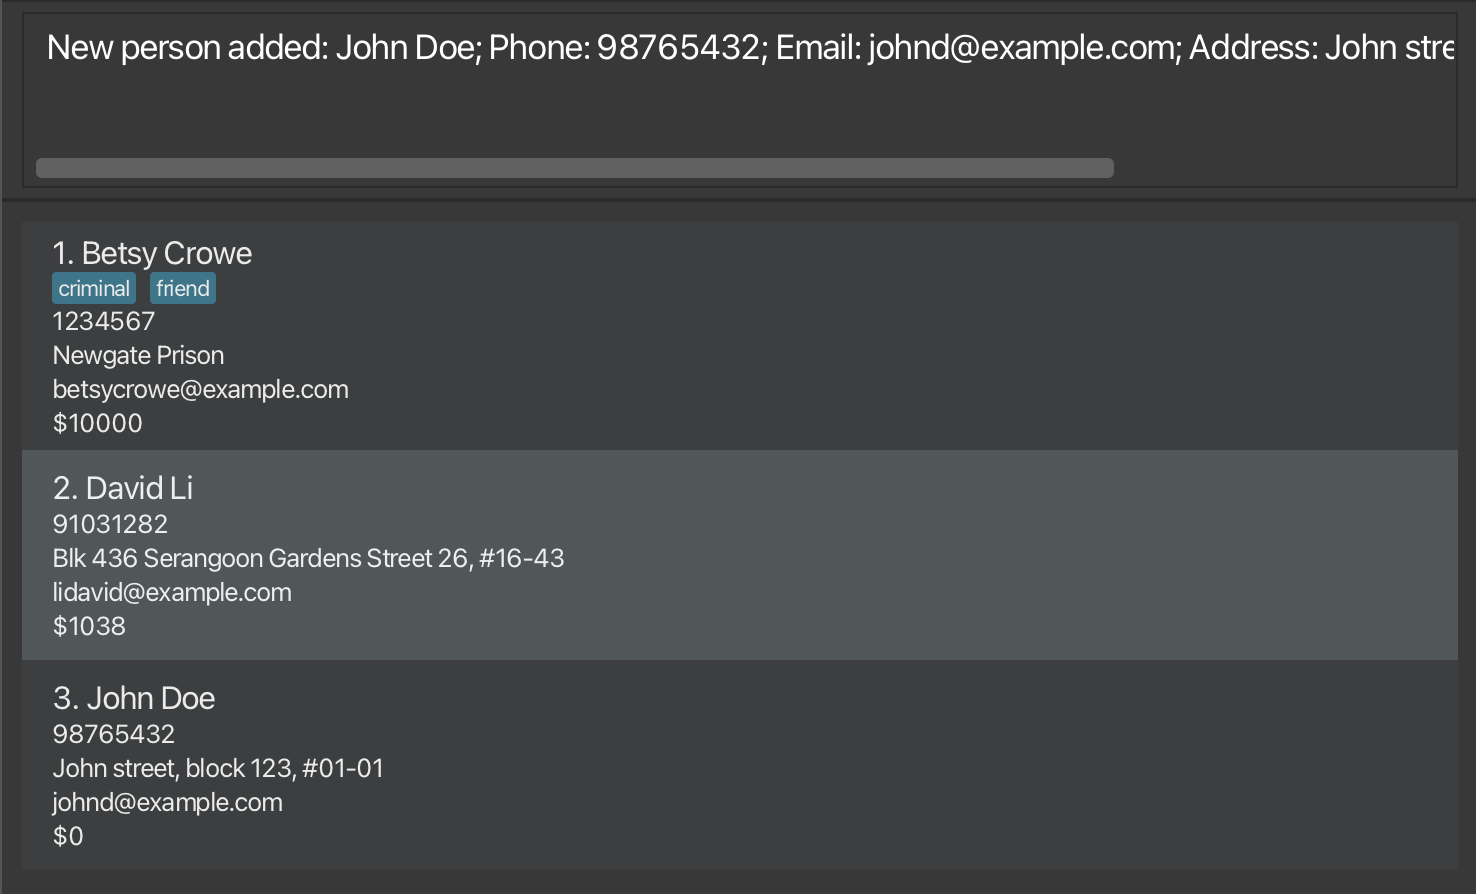
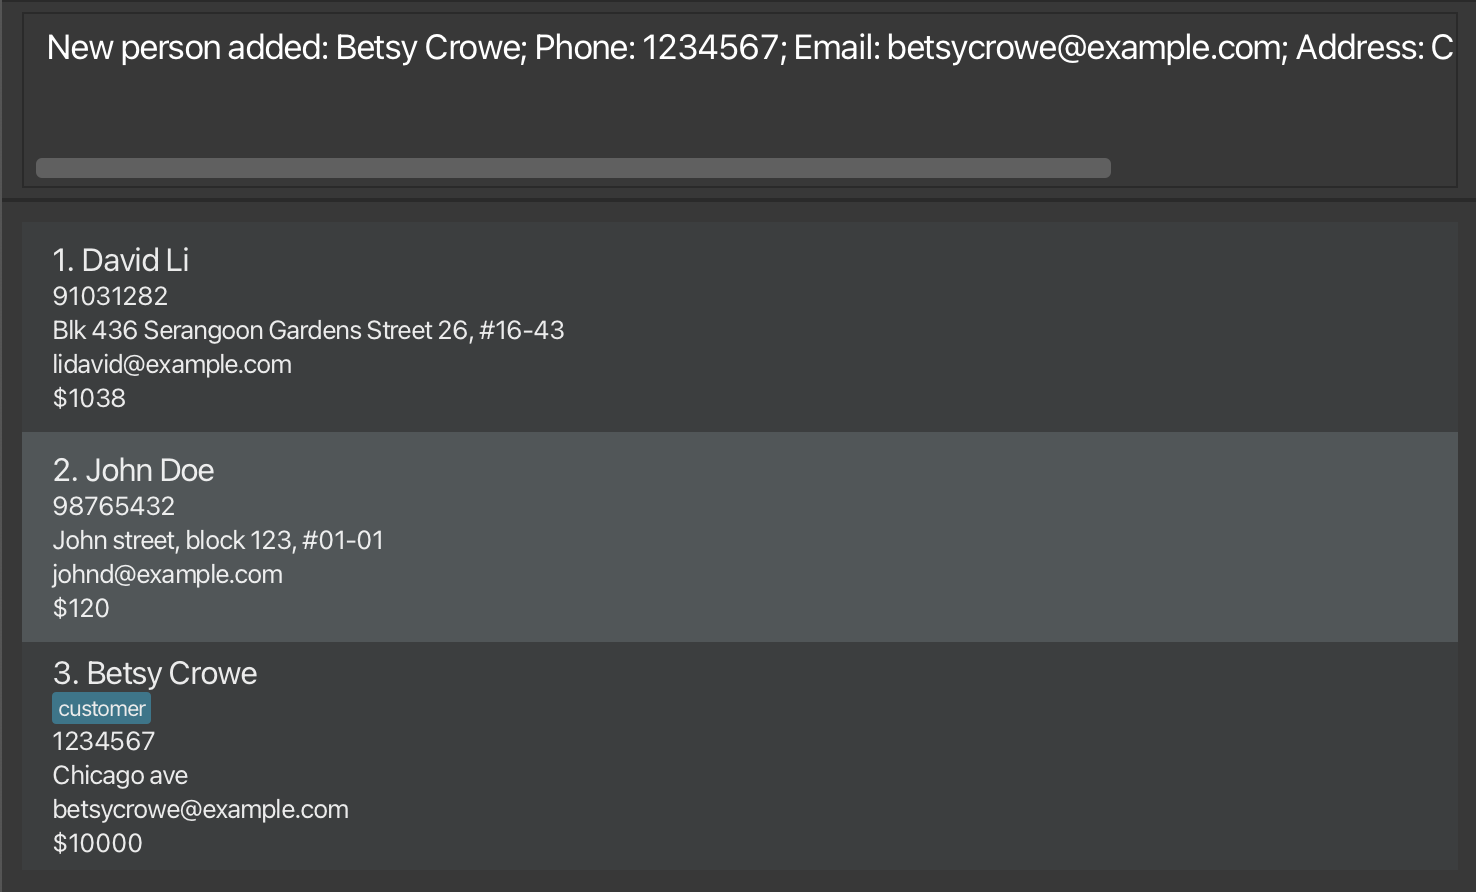
Change to relative tag

Changed region(s): [[0.0, 0.2724, 0.9973, 0.9686], [0.2182, 0.0303, 0.9973, 0.0908]]

diff --git a/docs/UserGuide.md b/docs/UserGuide.md
@@ -125,8 +125,8 @@ A contact can have any number of tags (including 0)
 
 Examples:
 * `add n/John Doe p/98765432 e/johnd@example.com a/John street, block 123, #01-01 c/0`
-* `add n/Betsy Crowe t/friend c/10000 e/betsycrowe@example.com a/Newgate Prison p/1234567 t/criminal`
-  ![result for 'add n/Betsy Crowe t/friend c/10000 e/betsycrowe@example.com a/Newgate Prison p/1234567 t/criminal'](images/addBetsyCroweResult.png)
+* `add n/Betsy Crowe c/10000 e/betsycrowe@example.com a/Chicago ave p/1234567 t/customer`
+  ![result for 'add n/Betsy Crowe c/10000 e/betsycrowe@example.com a/Chicago ave p/1234567 t/customer'](images/addBetsyCroweResult.png)
 
 ### Listing all persons : `list`
 
